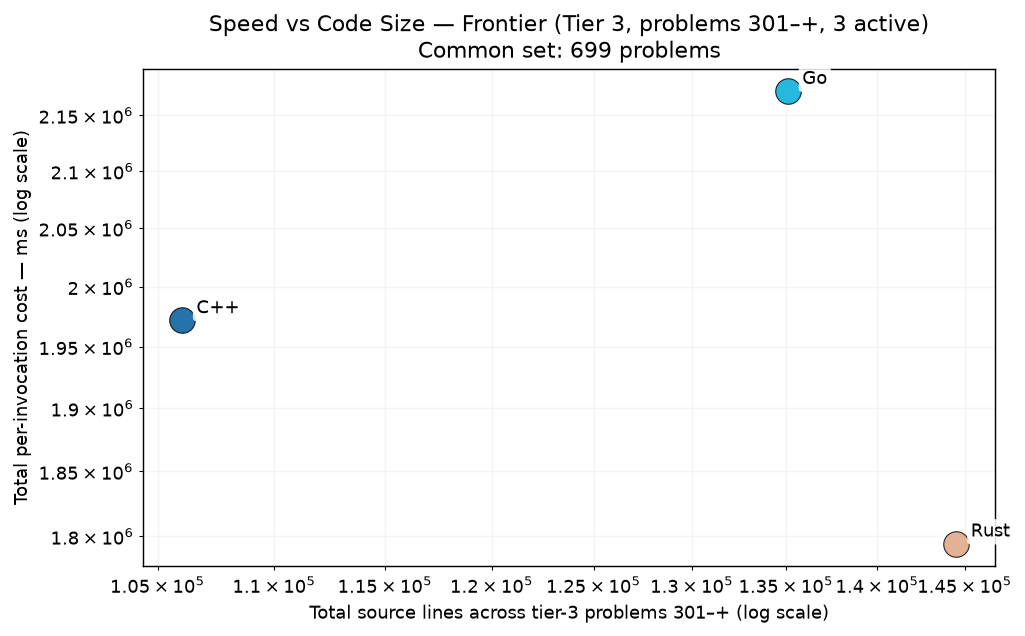
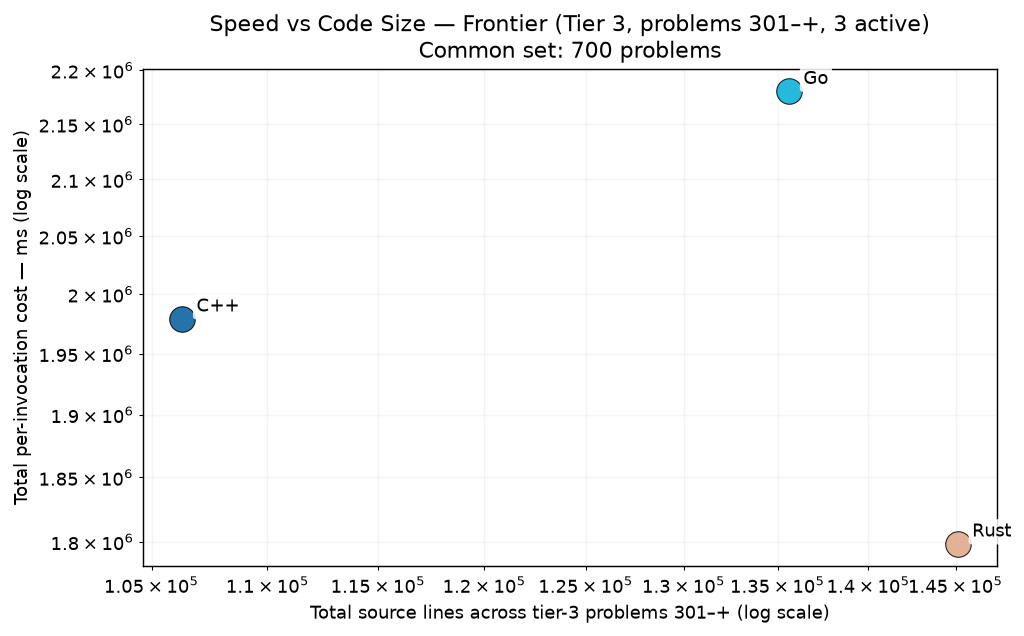
cpp p0989

diff --git a/RESULTS.md b/RESULTS.md
@@ -1,6 +1,6 @@
 # Project Euler — Cross-Language Benchmarks
 
-> **Scope: 4521 in-scope cells across 1007 problems × tiered languages — 4502 measured (99.6% coverage).**
+> **Scope: 4521 in-scope cells across 1007 problems × tiered languages — 4503 measured (99.6% coverage).**
 > The cross-language ranking below is computed over the **200-problem common set** (problems in 1-200 where every language has a passing measurement) — the apples-to-apples Foundation comparison surface.  Per-tier rankings and coverage detail appear further below.
 > Growing carefully — each new problem and language is audited for state-leak
 > safety, verified for answer correctness, and added only when it cleanly fits the
@@ -70,15 +70,15 @@ Same scatter as the Foundation chart, restricted to the tier-2 active languages 
 
 The frontier verification trio — C++, Go, Rust — on problems above 300. 3-way cross-language agreement is the verification protocol (strictly stronger than 2-way; see JOURNEY.md "Tier Reframing" episode for the p254 lesson that motivated it). Python and Zig are explicitly out of this tier — python's wall cost makes it impractical at level 5+, and zig's role caps at Tier 2.
 
-### Per-Invocation Cost (Common Set, 699 of ≤707 problems in scope)
+### Per-Invocation Cost (Common Set, 700 of ≤707 problems in scope)
 
 ![Per-Invocation Cost — Tier 3](charts/per_iter_total_tier3.png)
 
-| Rank | Language | Geomean (699-problem common set) | Total (sum) | Lines of code | vs Fastest |
+| Rank | Language | Geomean (700-problem common set) | Total (sum) | Lines of code | vs Fastest |
 |------|----------|--------------------:|------------:|--------------:|-----------:|
-| 1 | **Rust** | 76.60 ms | 1794.30 s | 144,516 | 1.00× |
-| 2 | **C++** | 81.36 ms | 1971.62 s | 106,030 | 1.06× |
-| 3 | **Go** | 89.86 ms | 2171.92 s | 135,098 | 1.17× |
+| 1 | **Rust** | 77.04 ms | 1798.43 s | 145,128 | 1.00× |
+| 2 | **C++** | 81.89 ms | 1979.14 s | 106,296 | 1.06× |
+| 3 | **Go** | 90.45 ms | 2180.34 s | 135,622 | 1.17× |
 
 ### Speed vs Code Size
 
@@ -264,7 +264,7 @@ table never silently mixes versions (METHODOLOGY.md §4).  Current state of the
 |----------|-----------|------:|---------------|
 | **ARM64** | `Apple clang version 21.0.0 (clang-2100.1.1.101)` | 200 | 2026-07-30 |
 | **C** | `Apple clang version 21.0.0 (clang-2100.1.1.101)` | 200 | 2026-07-30 |
-| **C++** | `Apple clang version 21.0.0 (clang-2100.1.1.101)` | 999 | 2026-09-11 |
+| **C++** | `Apple clang version 21.0.0 (clang-2100.1.1.101)` | 1000 | 2026-09-11 |
 | **C#** | `10.0.101` | 200 | 2026-07-30 |
 | **Go** | `go version go1.26.5 darwin/arm64` | 1001 | 2026-09-11 |
 | **Java** | `openjdk version "21.0.2" 2024-01-16 LTS` | 200 | 2026-07-30 |

diff --git a/per_problem/per_problem_0901-1000.md b/per_problem/per_problem_0901-1000.md
@@ -96,7 +96,7 @@ in tier-1 display order (native → managed → interpreted).
 | **p0986** | 1.55 s | 15.22 s | 17.76 s |
 | **p0987** | 833.91 ms | 861.49 ms | 5.16 s |
 | **p0988** | 29.0 µs | 146.2 µs | 1.16 ms |
-| **p0989** | — | 4.13 s | 8.42 s |
+| **p0989** | 7.52 s | 4.13 s | 8.42 s |
 | **p0990** | 135.16 ms | 143.53 ms | 261.21 ms |
 | **p0991** | 21.51 ms | 22.22 ms | 23.74 ms |
 | **p0992** | 14.48 ms | 17.66 ms | 19.30 ms |
